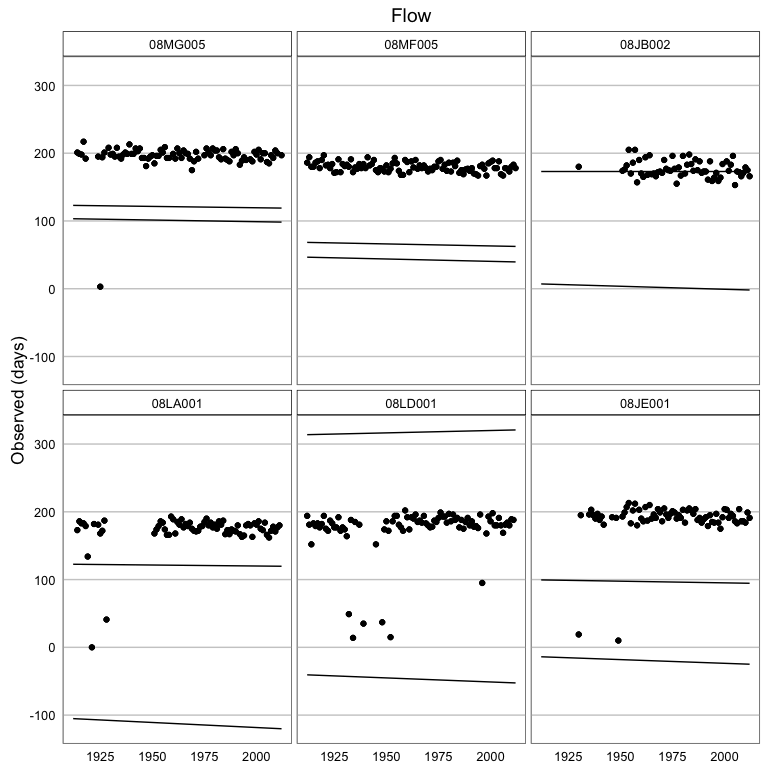
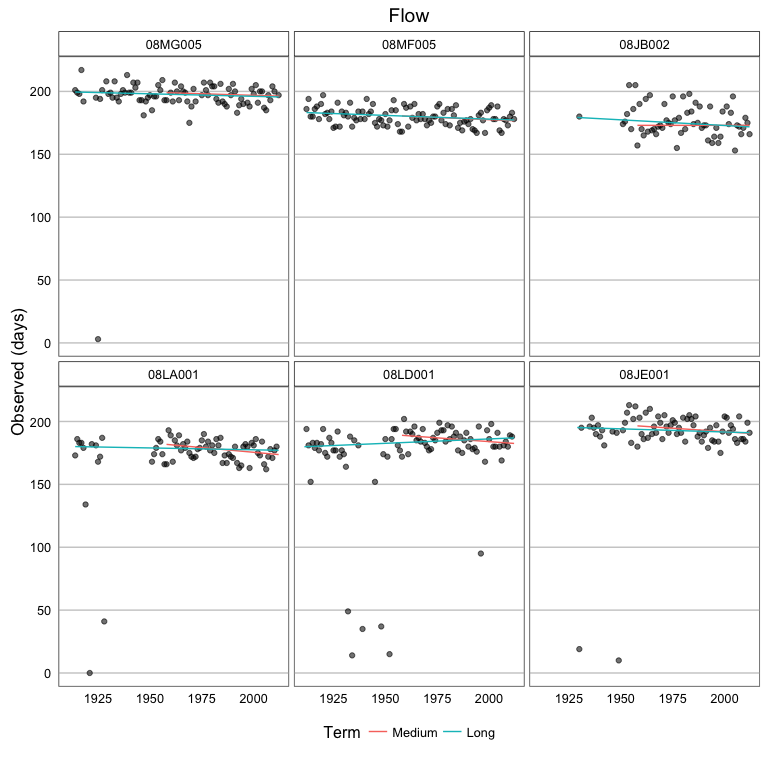
Plot observed data by color

diff --git a/README.md b/README.md
@@ -24,7 +24,7 @@ plot_trend_estimates(cccharts::precipitation, x = "Ecoprovince", facet = "Season
 
 ``` r
 plot_trend_observed(cccharts::flow_station_timing, cccharts::flow_station_timing_observed, 
-                    facet = "Station", nrow = 2)
+                    facet = "Station", nrow = 2, color = "Term")
 ```
 
 ![](README-unnamed-chunk-3-1.png)
